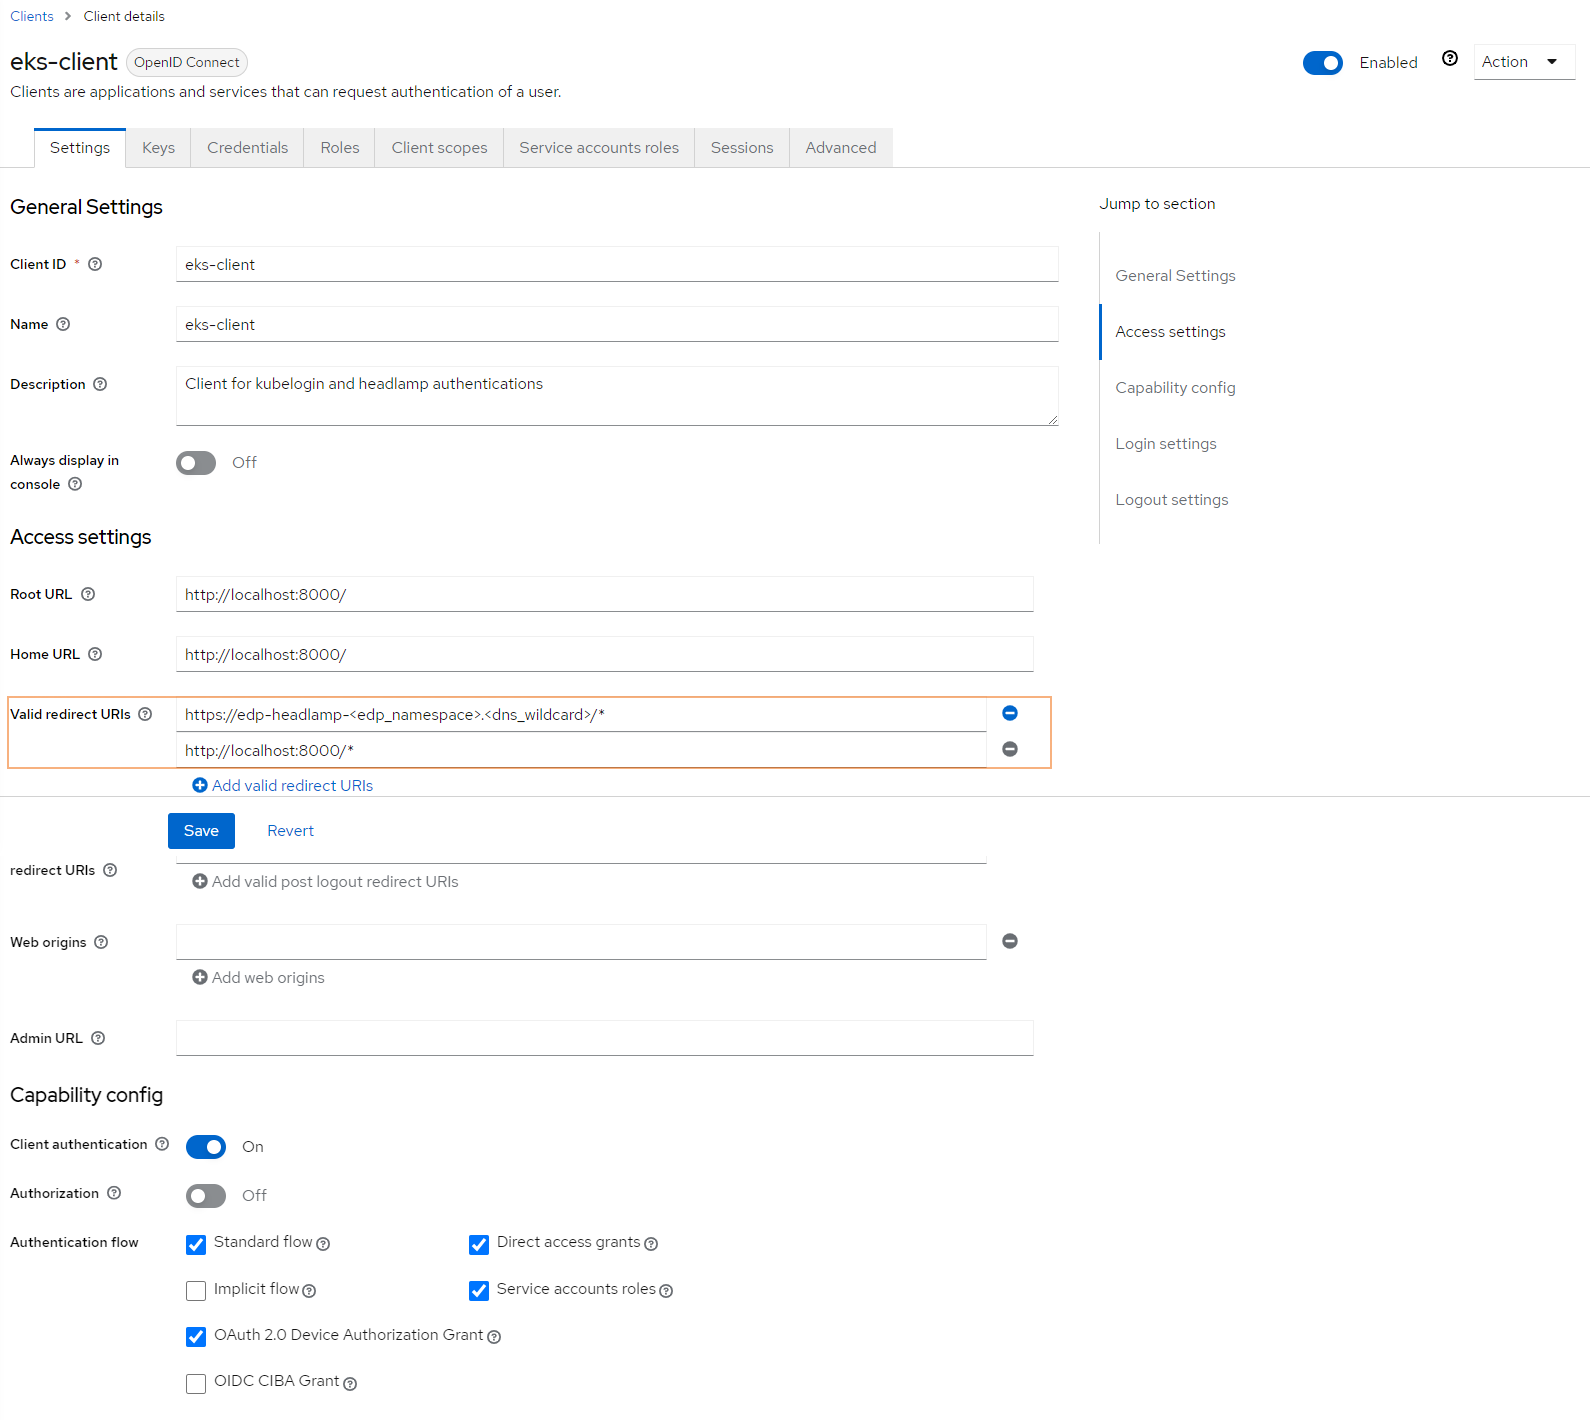
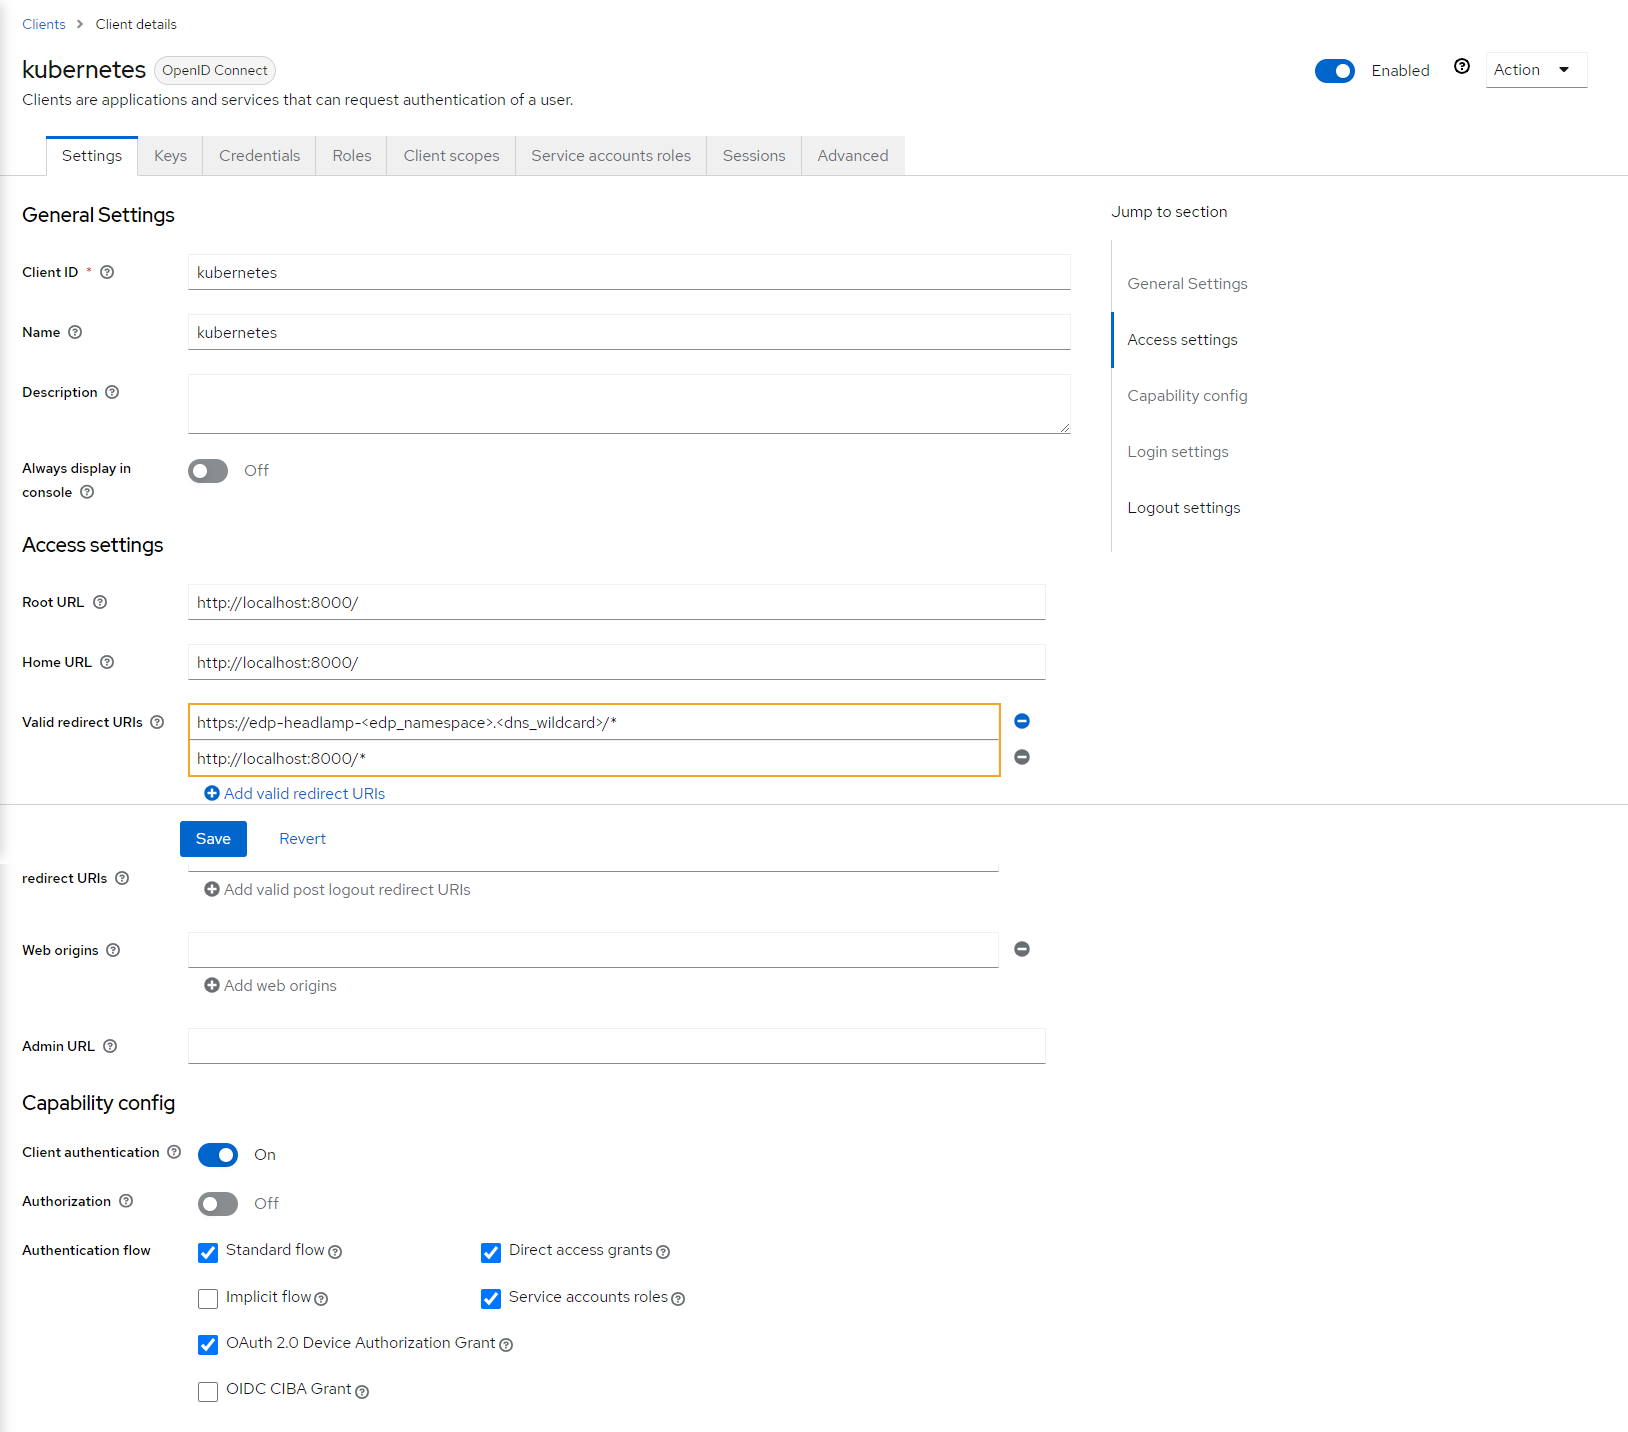
[EPMDEDP-11513]: fix: Update headlamp OIDC documentation
* In headlamp OIDC guide update client name on screenshot
* Update value in keycloak secret

diff --git a/docs/operator-guide/headlamp-oidc.md b/docs/operator-guide/headlamp-oidc.md
@@ -44,7 +44,7 @@ To proceed with the Keycloak configuration, perform the following:
     name: keycloak-client-headlamp-secret
     namespace: <edp-project>
   type: Opaque
-  data:
+  stringData:
     clientSecret: <keycloak_client_secret_key>
   ```
 
